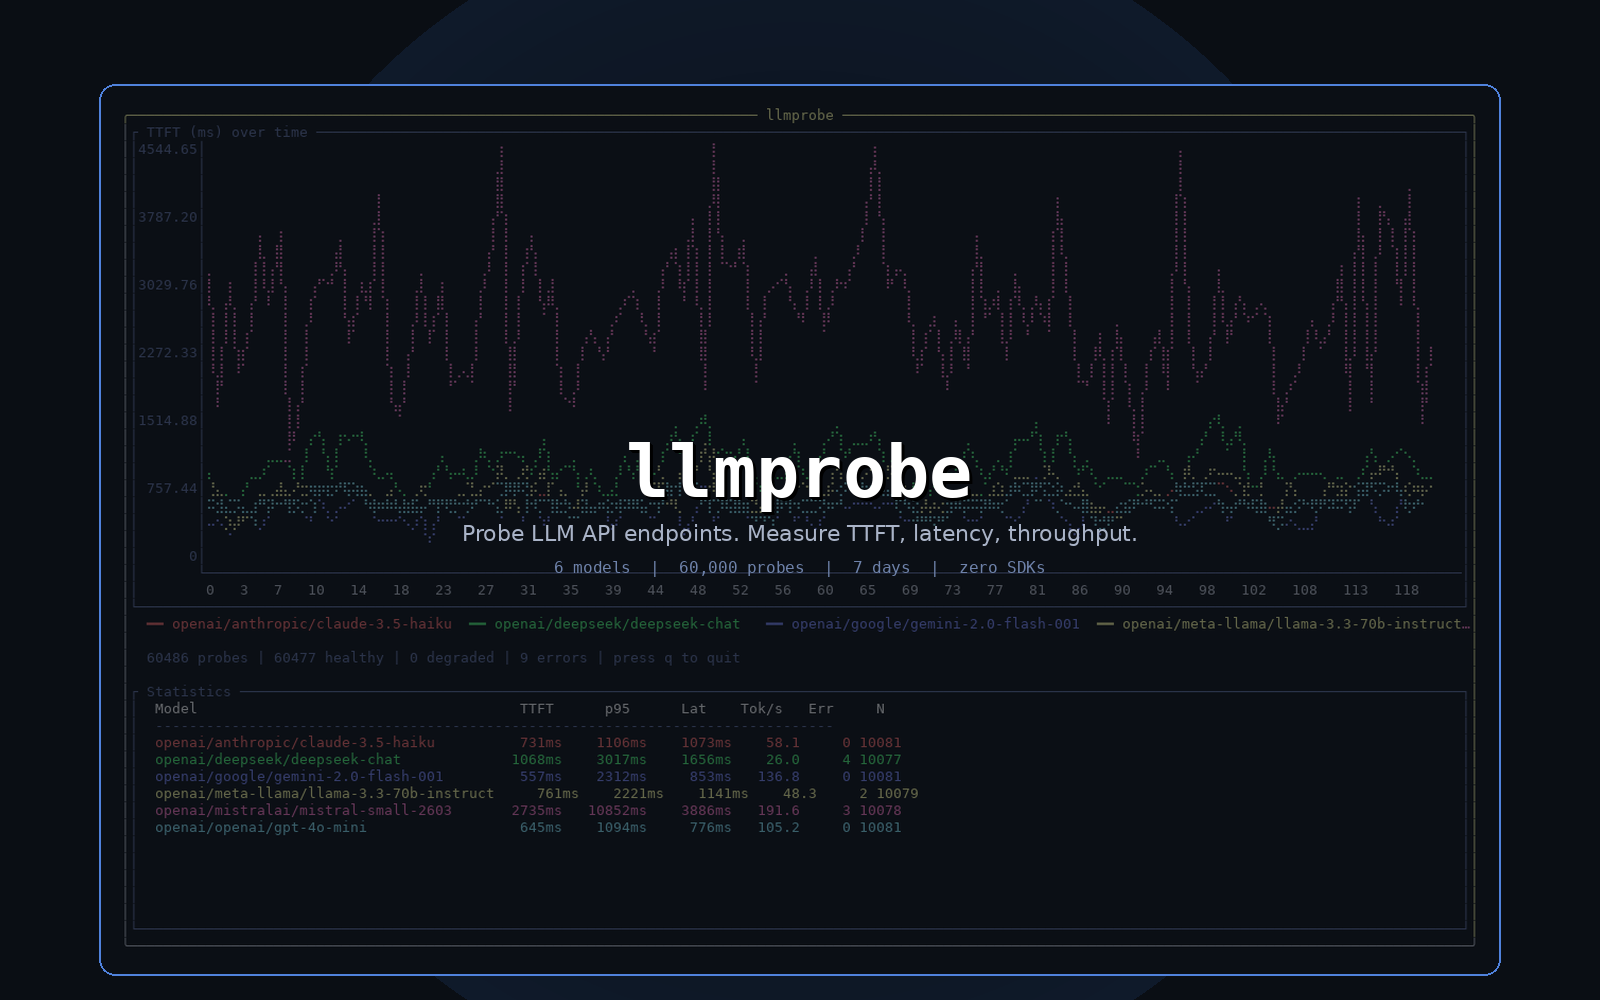
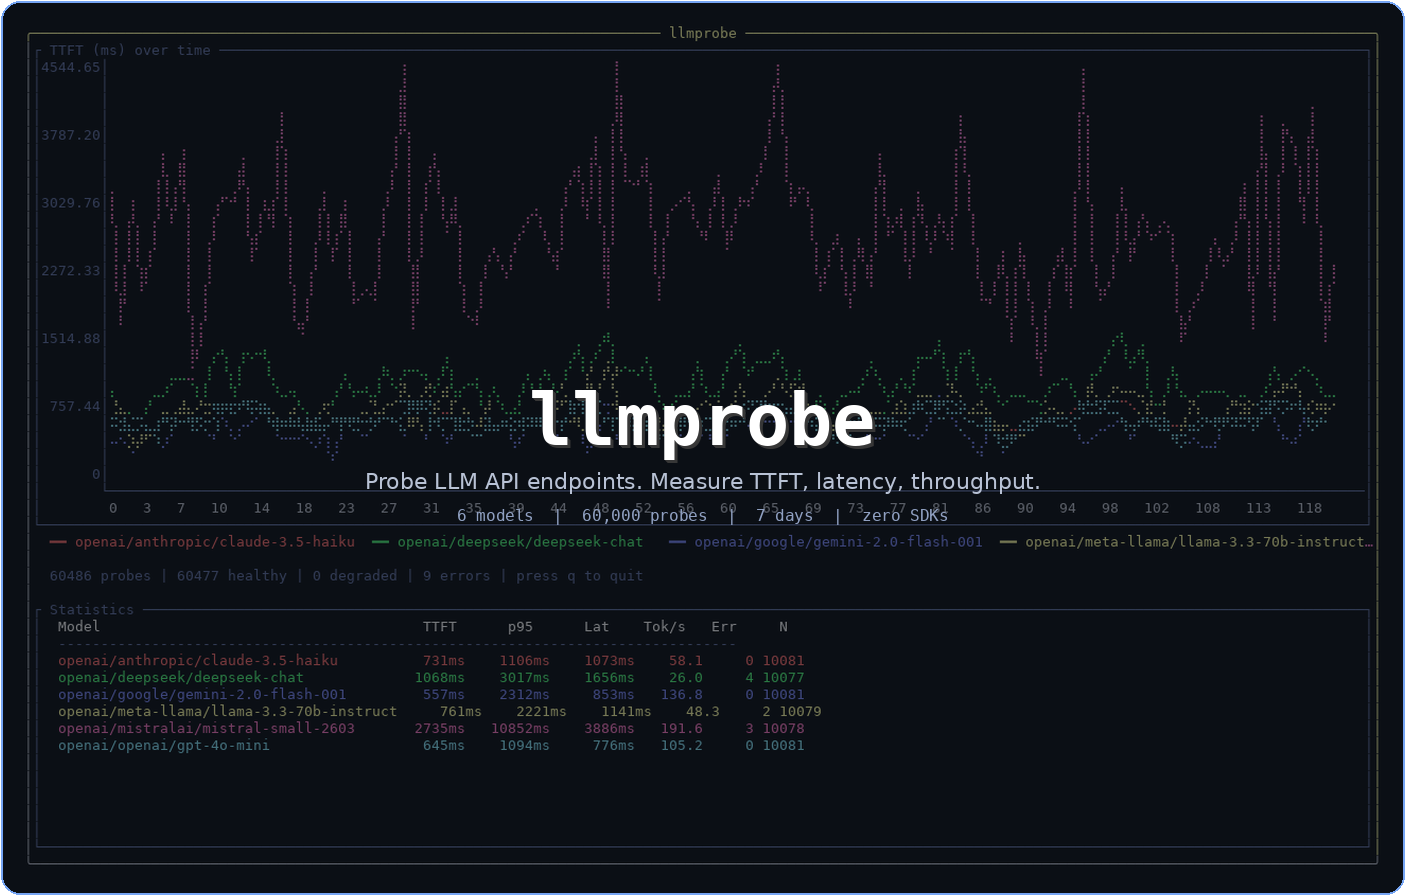
Transparent background thumbnail with blue border

diff --git a/scripts/make_thumbnail.py b/scripts/make_thumbnail.py
@@ -1,52 +1,43 @@
-"""Create a polished hero image from the TUI screenshot."""
+"""Create a polished hero image: TUI screenshot with rounded corners, blue border, text overlay."""
 from PIL import Image, ImageDraw, ImageFont
-
-def rounded_rect_mask(size, radius):
-    mask = Image.new("L", size, 0)
-    d = ImageDraw.Draw(mask)
-    d.rounded_rectangle([(0, 0), (size[0] - 1, size[1] - 1)], radius=radius, fill=255)
-    return mask
 
 def make_thumbnail(screenshot_path, output_path):
     tui = Image.open(screenshot_path).convert("RGBA")
     tui = tui.resize((1400, 890), Image.LANCZOS)
 
-    W, H = 1600, 1000
-    bg = Image.new("RGBA", (W, H), (10, 14, 20, 255))
+    pad = 3
+    radius = 16
+    W = tui.size[0] + pad * 2
+    H = tui.size[1] + pad * 2
 
-    # Subtle radial glow
-    glow = Image.new("RGBA", (W, H), (0, 0, 0, 0))
-    gd = ImageDraw.Draw(glow)
-    cx, cy = W // 2, H // 2
-    for r in range(600, 0, -2):
-        alpha = int(25 * (r / 600))
-        gd.ellipse([cx - r, cy - r, cx + r, cy + r], fill=(60, 140, 255, alpha))
-    bg = Image.alpha_composite(bg, glow)
+    canvas = Image.new("RGBA", (W, H), (0, 0, 0, 0))
 
-    # Round corners on TUI screenshot
-    mask = rounded_rect_mask(tui.size, 16)
+    # Rounded mask for the screenshot
+    mask = Image.new("L", tui.size, 0)
+    md = ImageDraw.Draw(mask)
+    md.rounded_rectangle([(0, 0), (tui.size[0] - 1, tui.size[1] - 1)], radius=radius, fill=255)
+
     tui_rounded = Image.new("RGBA", tui.size, (0, 0, 0, 0))
     tui_rounded.paste(tui, mask=mask)
 
-    # Place screenshot centered, shifted down slightly
-    sx = (W - tui.size[0]) // 2
-    sy = (H - tui.size[1]) // 2 + 30
+    # Dim the screenshot for text contrast
+    dim = Image.new("RGBA", tui.size, (10, 14, 20, 140))
+    tui_dimmed = Image.alpha_composite(tui_rounded, dim)
 
-    # Dim the screenshot so text pops
-    dimmed = tui_rounded.copy()
-    dim_overlay = Image.new("RGBA", tui.size, (10, 14, 20, 160))
-    dimmed = Image.alpha_composite(dimmed, dim_overlay)
+    # Re-apply mask after dimming (edges stay clean)
+    final_tui = Image.new("RGBA", tui.size, (0, 0, 0, 0))
+    final_tui.paste(tui_dimmed, mask=mask)
 
-    bg.paste(dimmed, (sx, sy), dimmed)
+    canvas.paste(final_tui, (pad, pad), final_tui)
 
-    # Draw a subtle border around the screenshot
-    bd = ImageDraw.Draw(bg)
+    # Blue border with rounded corners
+    bd = ImageDraw.Draw(canvas)
     bd.rounded_rectangle(
-        [(sx - 1, sy - 1), (sx + tui.size[0], sy + tui.size[1])],
-        radius=16, outline=(80, 130, 220, 100), width=2
+        [(1, 1), (W - 2, H - 2)],
+        radius=radius + pad, outline=(80, 140, 240, 200), width=2
     )
 
-    draw = ImageDraw.Draw(bg)
+    draw = ImageDraw.Draw(canvas)
 
     try:
         title_font = ImageFont.truetype("/usr/share/fonts/truetype/dejavu/DejaVuSansMono-Bold.ttf", 72)
@@ -57,32 +48,30 @@ def make_thumbnail(screenshot_path, output_path):
         sub_font = title_font
         small_font = title_font
 
-    # Title
+    # Title centered
     title = "llmprobe"
     bbox = draw.textbbox((0, 0), title, font=title_font)
     tw = bbox[2] - bbox[0]
     tx = (W - tw) // 2
     ty = H // 2 - 70
 
-    # Shadow
     for dx, dy in [(2, 2), (1, 1), (3, 3)]:
-        draw.text((tx + dx, ty + dy), title, font=title_font, fill=(0, 0, 0, 180))
+        draw.text((tx + dx, ty + dy), title, font=title_font, fill=(0, 0, 0, 200))
     draw.text((tx, ty), title, font=title_font, fill=(255, 255, 255, 255))
 
     # Tagline
     tagline = "Probe LLM API endpoints. Measure TTFT, latency, throughput."
     bbox2 = draw.textbbox((0, 0), tagline, font=sub_font)
     tw2 = bbox2[2] - bbox2[0]
-    draw.text(((W - tw2) // 2, ty + 90), tagline, font=sub_font, fill=(170, 180, 200, 230))
+    draw.text(((W - tw2) // 2, ty + 90), tagline, font=sub_font, fill=(180, 190, 210, 240))
 
     # Stats
     stats = "6 models  |  60,000 probes  |  7 days  |  zero SDKs"
     bbox3 = draw.textbbox((0, 0), stats, font=small_font)
     tw3 = bbox3[2] - bbox3[0]
-    draw.text(((W - tw3) // 2, ty + 128), stats, font=small_font, fill=(110, 130, 170, 200))
+    draw.text(((W - tw3) // 2, ty + 128), stats, font=small_font, fill=(120, 140, 180, 210))
 
-    final = bg.convert("RGB")
-    final.save(output_path, quality=95, optimize=True)
+    canvas.save(output_path, optimize=True)
     print(f"Saved {output_path} ({W}x{H})")
 
 
